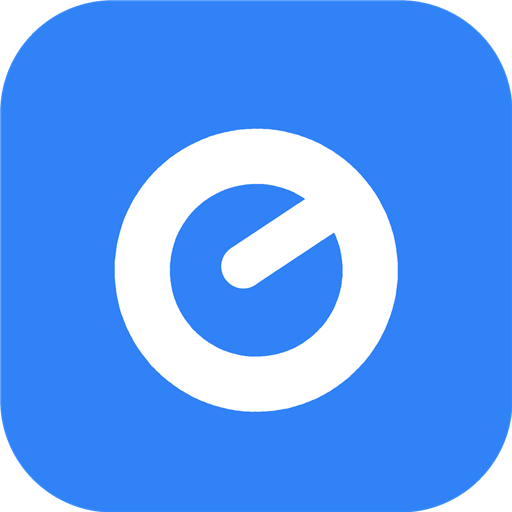
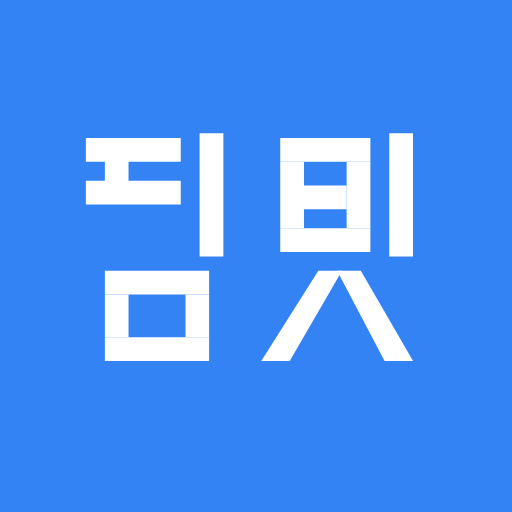
fix(android): align branding theme and Kakao login

diff --git a/apps/v1_android/app/src/main/java/kr/co/teameet/MainActivity.java b/apps/v1_android/app/src/main/java/kr/co/teameet/MainActivity.java
@@ -8,7 +8,7 @@ import android.content.ActivityNotFoundException;
 import android.content.ClipData;
 import android.content.Intent;
 import android.content.pm.PackageManager;
-import android.graphics.Color;
+import android.content.res.Configuration;
 import android.net.Uri;
 import android.os.Build;
 import android.os.Bundle;
@@ -41,6 +41,7 @@ import androidx.core.graphics.Insets;
 import androidx.core.view.ViewCompat;
 import androidx.core.view.WindowCompat;
 import androidx.core.view.WindowInsetsCompat;
+import androidx.core.view.WindowInsetsControllerCompat;
 import androidx.webkit.WebMessageCompat;
 import androidx.webkit.WebSettingsCompat;
 import androidx.webkit.WebViewCompat;
@@ -91,6 +92,7 @@ public final class MainActivity extends AppCompatActivity {
         configureWebView();
         configureRootView();
         setContentView(rootView);
+        applySystemBarAppearance();
         applySystemBarInsets();
         registerBackHandler();
         if (FirebaseBootstrap.initialize(this) && canRegisterPush()) {
@@ -130,6 +132,20 @@ public final class MainActivity extends AppCompatActivity {
         ViewCompat.requestApplyInsets(rootView);
     }
 
+    private void applySystemBarAppearance() {
+        boolean isDarkMode = (getResources().getConfiguration().uiMode
+            & Configuration.UI_MODE_NIGHT_MASK) == Configuration.UI_MODE_NIGHT_YES;
+        int systemBarColor = ContextCompat.getColor(this, R.color.system_bar_background);
+        getWindow().setStatusBarColor(systemBarColor);
+        getWindow().setNavigationBarColor(systemBarColor);
+        WindowInsetsControllerCompat controller = WindowCompat.getInsetsController(
+            getWindow(), rootView
+        );
+        controller.setAppearanceLightStatusBars(!isDarkMode);
+        controller.setAppearanceLightNavigationBars(!isDarkMode);
+        rootView.setBackgroundColor(systemBarColor);
+    }
+
     private void configureRootView() {
         rootView = new FrameLayout(this);
         rootView.addView(webView, new FrameLayout.LayoutParams(
@@ -147,21 +163,21 @@ public final class MainActivity extends AppCompatActivity {
         LinearLayout container = new LinearLayout(this);
         container.setOrientation(LinearLayout.VERTICAL);
         container.setGravity(Gravity.CENTER);
-        container.setBackgroundColor(Color.WHITE);
+        container.setBackgroundColor(ContextCompat.getColor(this, R.color.native_error_background));
         int padding = Math.round(32 * getResources().getDisplayMetrics().density);
         container.setPadding(padding, padding, padding, padding);
         container.setVisibility(View.GONE);
 
         TextView title = new TextView(this);
         title.setText(R.string.web_error_title);
-        title.setTextColor(Color.rgb(17, 24, 39));
+        title.setTextColor(ContextCompat.getColor(this, R.color.native_error_title));
         title.setTextSize(22);
         title.setGravity(Gravity.CENTER);
         container.addView(title);
 
         TextView description = new TextView(this);
         description.setText(R.string.web_error_description);
-        description.setTextColor(Color.rgb(75, 85, 99));
+        description.setTextColor(ContextCompat.getColor(this, R.color.native_error_body));
         description.setTextSize(15);
         description.setGravity(Gravity.CENTER);
         LinearLayout.LayoutParams descriptionParams = new LinearLayout.LayoutParams(
@@ -526,6 +542,7 @@ public final class MainActivity extends AppCompatActivity {
 
     @Override protected void onResume() {
         super.onResume();
+        if (rootView != null) applySystemBarAppearance();
         if (!PushPermission.isGranted(this)) InstallationIdentity.markOptedIn(this, false);
         if (!canRegisterPush() && InstallationIdentity.isRegistered(this)) {
             revokePushAndDeleteToken(() -> {});

diff --git a/apps/v1_android/app/src/test/java/kr/co/teameet/AllowedNavigationTest.java b/apps/v1_android/app/src/test/java/kr/co/teameet/AllowedNavigationTest.java
@@ -35,6 +35,31 @@ public final class AllowedNavigationTest {
         assertEquals(false, AllowedNavigation.isAllowedExternalScheme("content"));
     }
 
+    @Test public void keepsOnlyExactKakaoAuthenticationHostsInsideTheWebView() {
+        assertEquals(true, AllowedNavigation.isTrustedAuthProviderAbsoluteUrl(
+            "https://kauth.kakao.com/oauth/authorize"
+        ));
+        assertEquals(true, AllowedNavigation.isTrustedAuthProviderAbsoluteUrl(
+            "https://accounts.kakao.com/login"
+        ));
+        assertEquals(true, AllowedNavigation.isTrustedAuthProviderAbsoluteUrl(
+            "https://auth.kakao.com/login"
+        ));
+        assertEquals(false, AllowedNavigation.isTrustedAuthProviderAbsoluteUrl(
+            "http://accounts.kakao.com/login"
+        ));
+        assertEquals(false, AllowedNavigation.isTrustedAuthProviderAbsoluteUrl(
+            "https://accounts.kakao.com.attacker.example/login"
+        ));
+        assertEquals(false, AllowedNavigation.isTrustedAuthProviderAbsoluteUrl(
+            "https://user@accounts.kakao.com/login"
+        ));
+        assertEquals(false, AllowedNavigation.isTrustedAuthProviderAbsoluteUrl(
+            "https://accounts.kakao.com:444/login"
+        ));
+        assertEquals(false, AllowedNavigation.isTrustedAuthProviderAbsoluteUrl("not a url"));
+    }
+
     @Test public void grantsGeolocationOnlyToTheExactEnvironmentOrigin() {
         String origin = BuildConfig.APPLICATION_ID.endsWith(".alpha")
             ? "https://alpha.teameet.co.kr"

diff --git a/apps/v1_android/app/src/main/java/kr/co/teameet/AllowedNavigation.java b/apps/v1_android/app/src/main/java/kr/co/teameet/AllowedNavigation.java
@@ -3,8 +3,15 @@ package kr.co.teameet;
 import android.net.Uri;
 import java.net.URI;
 import java.util.Locale;
+import java.util.Set;
 
 final class AllowedNavigation {
+    private static final Set<String> TRUSTED_KAKAO_AUTH_HOSTS = Set.of(
+        "kauth.kakao.com",
+        "accounts.kakao.com",
+        "auth.kakao.com"
+    );
+
     private AllowedNavigation() {}
 
     static boolean isInternal(Uri target) {
@@ -44,11 +51,22 @@ final class AllowedNavigation {
     }
 
     static boolean isTrustedAuthProvider(Uri target) {
-        return target != null
-            && "https".equalsIgnoreCase(target.getScheme())
-            && "kauth.kakao.com".equalsIgnoreCase(target.getHost())
-            && target.getUserInfo() == null
-            && target.getPort() == -1;
+        return target != null && isTrustedAuthProviderAbsoluteUrl(target.toString());
+    }
+
+    static boolean isTrustedAuthProviderAbsoluteUrl(String candidate) {
+        if (candidate == null) return false;
+        try {
+            URI target = URI.create(candidate);
+            String host = target.getHost();
+            return "https".equalsIgnoreCase(target.getScheme())
+                && host != null
+                && TRUSTED_KAKAO_AUTH_HOSTS.contains(host.toLowerCase(Locale.ROOT))
+                && target.getRawUserInfo() == null
+                && target.getPort() == -1;
+        } catch (IllegalArgumentException ignored) {
+            return false;
+        }
     }
 
     static boolean isAllowedExternal(Uri target) {

diff --git a/.github/tasks/156-android-app-fcm-foundation.md b/.github/tasks/156-android-app-fcm-foundation.md
@@ -574,3 +574,12 @@ report, upgrade preservation, and the remaining OEM/foldable/multi-window matrix
 - Alpha lint now has 12 non-fatal warnings: one intentionally pinned AndroidX Core version, one redundant min-SDK resource qualifier, and five existing launcher round-shape/duplicate pairs. The renderer-process crash warning is resolved and no broad-storage warning or permission is present.
 - API 36 emulator proof opened `DocumentsUI` `PickActivity` on `Recent images`, returned the selected image filename to the WebView input, and retained the app as the resumed activity. Evidence is in `output/task156/android-emulator-final/` and copied to the requested desktop screenshot folder.
 - Phase 5 remains open only where external state or physical distribution is required: Play account/app ownership, Play App Signing SHA-256, production signing/Firebase protected inputs, Play upload/testing/pre-launch report, final store screenshots, real FCM receive/tap matrix, and remaining OEM/foldable/multi-window coverage.
+
+## Android Theme, Branding, and Kakao WebView Follow-up (2026-09-01)
+
+- Alpha and Production application labels, notification channel copy, and Korean Play listing title now use the exact two-character name 팀밋.
+- The adaptive/monochrome vector, legacy density launchers, round launchers, and canonical 512 px Play icon use the repository-owned geometric 팀밋 wordmark on the existing #3483F5 brand background. The Play checksum manifest is synchronized.
+- Status/navigation bar backgrounds and icon appearance now follow Android DayNight configuration. API 36 captures measured #FFFFFF in light mode and #111827 at the dark status bar; dark navigation receives the platform contrast scrim while retaining light navigation icons. The native WebView error surface also follows the same light/dark palette.
+- Kakao authorization remains inside MainActivity for the exact official HTTPS hosts kauth.kakao.com, accounts.kakao.com, and auth.kakao.com. User-info URLs, custom ports, HTTP, suffix hosts, and unrelated external origins remain rejected from the in-app OAuth allowlist.
+- Alpha/Production JVM suites passed 13/13 each. Alpha lint completed with 0 errors and 2 pre-existing non-fatal warnings (GradleDependency, ObsoleteSdkInt); Alpha and Production debug APK assembly and the Alpha release AAB bundle passed.
+- API 36 Pixel emulator evidence covers the app-drawer icon and exact 팀밋 label, light/dark system bars, Kakao Account rendered inside the app WebView, and Android Back returning to the Teameet login page. Raw evidence is under output/task156/android-branding-theme/; the five reviewed PNGs were also copied to the operator-requested desktop screenshot directory.

diff --git a/apps/v1_android/play/listing/README.md b/apps/v1_android/play/listing/README.md
@@ -6,14 +6,13 @@ must never be submitted as product evidence.
 
 ## Graphics
 
-- `graphics/play-icon-512.png`: 512×512 Play icon, derived from
-  `docs/reference/app-icons-v4/06-orbit-match-blue.png`.
+- `graphics/play-icon-512.png`: 512×512 Play icon, rendered from the repository-owned adaptive `팀밋` wordmark and brand color.
 - `graphics/feature-graphic-1024x500.png`: 1024×500 Play feature graphic.
 - Device screenshots are intentionally absent until the physical-device matrix is complete.
 
 Feature graphic generation prompt:
 
-> Create a polished Google Play Store feature graphic for Teameet, a Korean community app that
+> Create a polished Google Play Store feature graphic for 팀밋, a Korean community app that
 > helps amateur sports players find matches, teams, venues, and lessons. Exact target composition:
 > 1024×500 landscape. Clean premium product-brand style, not a phone mockup and not a screenshot.
 > Use a vivid royal blue (#3483F5-like), deep navy (#111827-like), white, and very subtle cool gray.
